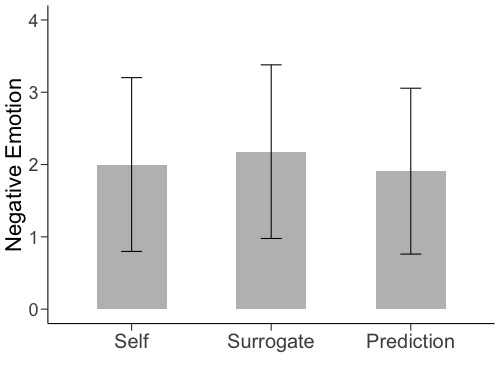
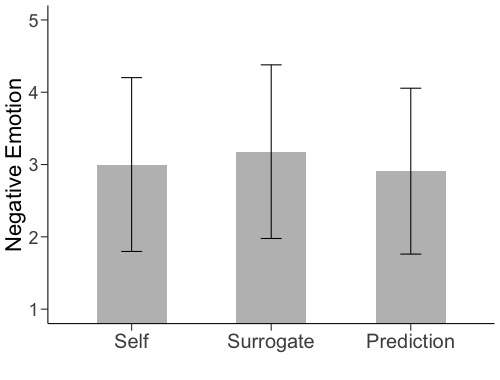
Updated scales

diff --git a/viz-2.html b/viz-2.html
@@ -198,6 +198,76 @@ risk_all &lt;- risk_all %&gt;%
          rel_self = as_factor(rel_self),
          rel_friend1 = as_factor(rel_friend1),
          rel_friend2 = as_factor(rel_friend2)) </code></pre>
+<pre class="r"><code>risk_all &lt;- risk_all %&gt;% 
+  mutate(risklevel = case_when(risklevel == 0 ~ 1,
+                               risklevel == 1 ~ 2,
+                               risklevel == 2 ~ 3,
+                               risklevel == 3 ~ 4,
+                               risklevel == 4 ~ 5,
+                               risklevel == 5 ~ 6,
+                               risklevel == 6 ~7),
+         neg = case_when(neg == 0 ~ 1,
+                         neg == 1 ~ 2,
+                         neg == 2 ~ 3,
+                         neg == 3 ~ 4,
+                         neg == 4 ~ 5),
+         pos = case_when(pos == 0 ~ 1,
+                         pos == 1 ~ 2,
+                         pos == 2 ~ 3,
+                         pos == 3 ~ 4,
+                         pos == 4 ~ 5),
+         alert = case_when(alert == 0 ~ 1,
+                         alert == 1 ~ 2,
+                         alert == 2 ~ 3,
+                         alert == 3 ~ 4,
+                         alert == 4 ~ 5),
+         riskyrisk = case_when(riskyrisk == 0 ~ 1,
+                         riskyrisk == 1 ~ 2,
+                         riskyrisk == 2 ~ 3,
+                         riskyrisk == 3 ~ 4,
+                         riskyrisk == 4 ~ 5),
+         riskavrisk = case_when(riskavrisk == 0 ~ 1,
+                         riskavrisk == 1 ~ 2,
+                         riskavrisk == 2 ~ 3,
+                         riskavrisk == 3 ~ 4,
+                         riskavrisk == 4 ~ 5))
+
+summary(risk_all)</code></pre>
+<pre><code>##     consent       time             age                              gender   
+##  Min.   :1   Min.   :  45.0   Min.   :  18.00   Male                   :295  
+##  1st Qu.:1   1st Qu.: 236.0   1st Qu.:  30.00   Female                 :274  
+##  Median :1   Median : 321.0   Median :  36.00   Non-binary             :  0  
+##  Mean   :1   Mean   : 397.8   Mean   :  43.14   Other/Prefer not to say:  0  
+##  3rd Qu.:1   3rd Qu.: 444.0   3rd Qu.:  48.00                                
+##  Max.   :1   Max.   :3142.0   Max.   :1985.00                                
+##    gendcond              condition     friend1            friend2         
+##  Length:569         Self      :192   Length:569         Length:569        
+##  Class :character   Surrogate :191   Class :character   Class :character  
+##  Mode  :character   Prediction:186   Mode  :character   Mode  :character  
+##                                                                           
+##                                                                           
+##                                                                           
+##    risklevel          pos             neg           alert         riskyrisk    
+##  Min.   :1.000   Min.   :1.000   Min.   :1.00   Min.   :1.000   Min.   :1.000  
+##  1st Qu.:4.000   1st Qu.:4.000   1st Qu.:2.00   1st Qu.:4.000   1st Qu.:2.000  
+##  Median :5.000   Median :4.000   Median :3.00   Median :4.000   Median :3.000  
+##  Mean   :4.708   Mean   :4.035   Mean   :3.03   Mean   :3.979   Mean   :2.663  
+##  3rd Qu.:6.000   3rd Qu.:5.000   3rd Qu.:4.00   3rd Qu.:5.000   3rd Qu.:4.000  
+##  Max.   :7.000   Max.   :5.000   Max.   :5.00   Max.   :5.000   Max.   :5.000  
+##    riskavrisk    rel_self  rel_friend1 rel_friend2   attention1   attention2
+##  Min.   :1.000   YES:314   YES:268     YES:280     Min.   :7    Min.   :3   
+##  1st Qu.:1.000   NO :255   NO :301     NO :289     1st Qu.:7    1st Qu.:3   
+##  Median :1.000                                     Median :7    Median :3   
+##  Mean   :1.786                                     Mean   :7    Mean   :3   
+##  3rd Qu.:2.000                                     3rd Qu.:7    3rd Qu.:3   
+##  Max.   :5.000                                     Max.   :7    Max.   :3   
+##      code                 id         code_mturk       
+##  Length:569         Min.   :  1.0   Length:569        
+##  Class :character   1st Qu.:160.0   Class :character  
+##  Mode  :character   Median :307.0   Mode  :character  
+##                     Mean   :307.1                     
+##                     3rd Qu.:457.0                     
+##                     Max.   :607.0</code></pre>
 <pre class="r"><code>mytheme = theme(
   axis.title.x = element_text(size = 22),
   axis.text.x = element_text(size = 20),
@@ -215,16 +285,18 @@ risk_all %&gt;%
     sd = sd(riskrating)
   ) %&gt;% 
   ggplot(aes(x = option, y = mean)) +
-  
-  geom_bar(stat = &quot;identity&quot;, fill = &quot;grey&quot;,position=position_dodge(), width = .5) +  
+  geom_bar(stat = &quot;identity&quot;, fill = &quot;grey&quot;, position=position_dodge(), width = .5) +  
   geom_errorbar(aes(ymin= mean-sd, ymax = mean + sd),  width=.15, position=position_dodge(.9)) +
   labs(x = &quot;&quot;,
        y = &quot;Riskiness&quot;) +
   scale_x_discrete(labels = c(&quot;Stay with Friends&quot;, &quot;Approach Barista&quot;)) +
-  scale_y_continuous(limits = c(-1, 4)) +
+      coord_cartesian(ylim=c(0, 5)) +
   theme_classic() +
   mytheme
 
+# Hadley explains this on pp. 99; 133 of his ggplot2 book (1st edition), or pp. 160 - 161 if you have the second edition.
+# 
+# The issue is that, as you say, limits inside the scale or setting ylim() causes data to be thrown away, as they are constraining the data. For a true zoom (keep all the data), you need to set the limits inside of the Cartesian coordinate system (or other coordinate systems https://ggplot2.tidyverse.org/reference/#section-coordinate-systems). For more see: http://docs.ggplot2.org/current/coord_cartesian.html
 
 dev.off()</code></pre>
 <pre><code>## quartz_off_screen 
@@ -245,20 +317,21 @@ df</code></pre>
 <pre><code>## # A tibble: 3 x 9
 ##   condition  mean_risk sd_risk mean_neg sd_neg mean_pos sd_pos mean_alert
 ## * &lt;fct&gt;          &lt;dbl&gt;   &lt;dbl&gt;    &lt;dbl&gt;  &lt;dbl&gt;    &lt;dbl&gt;  &lt;dbl&gt;      &lt;dbl&gt;
-## 1 Self            3.24    1.78     2      1.20     2.94  0.841       2.95
-## 2 Surrogate       3.88    1.70     2.18   1.20     3.10  0.767       3.02
-## 3 Prediction      4.02    1.43     1.91   1.15     3.06  0.829       2.96
+## 1 Self            4.24    1.78     3      1.20     3.94  0.841       3.95
+## 2 Surrogate       4.88    1.70     3.18   1.20     4.10  0.767       4.02
+## 3 Prediction      5.02    1.43     2.91   1.15     4.06  0.829       3.96
 ## # … with 1 more variable: sd_alert &lt;dbl&gt;</code></pre>
 <pre class="r"><code>jpeg(&quot;rt_bar.jpg&quot;, width = 500, height = 380)
 
 df %&gt;% 
   ggplot(aes(y = mean_risk, x = condition)) +
-  geom_bar(stat = &quot;identity&quot;, fill = &quot;grey&quot;,position=position_dodge(), width = .5) +
+  geom_bar(stat = &quot;identity&quot;, fill = &quot;grey&quot;, position=position_dodge(), width = .5) +
   geom_errorbar(aes(ymin = mean_risk - sd_risk, ymax = mean_risk + sd_risk),  width=.15, position=position_dodge(.9)) +
   labs(x = &quot;&quot;,
        y = &quot;Risk Taking Levels&quot;) +
   scale_x_discrete(labels = c(&quot;Self&quot;, &quot;Surrogate&quot;, &quot;Prediction&quot;)) +
-  scale_y_continuous(limits = c(0,6), breaks = c(0,1,2,3,4,5,6)) +
+  coord_cartesian(ylim = c(1,7)) +
+  scale_y_continuous(breaks = c(1,2,3,4,5,6,7)) +
   theme_classic() +
   mytheme
 
@@ -274,8 +347,8 @@ df %&gt;%
   labs(x = &quot;&quot;,
        y = &quot;Negative Emotion&quot;) +
   scale_x_discrete(labels = c(&quot;Self&quot;, &quot;Surrogate&quot;, &quot;Prediction&quot;)) +
-  scale_y_continuous(limits = c(0,4)) +
-  theme_classic() +
+coord_cartesian(ylim = c(1,5)) +
+  scale_y_continuous(breaks = c(1,2,3,4,5)) +  theme_classic() +
   mytheme
 
 dev.off()</code></pre>
@@ -290,6 +363,8 @@ df %&gt;%
   labs(x = &quot;&quot;,
        y = &quot;Positive Emotion&quot;) +
   scale_x_discrete(labels = c(&quot;Self&quot;, &quot;Surrogate&quot;, &quot;Prediction&quot;)) +
+  coord_cartesian(ylim = c(1,5)) +
+  scale_y_continuous(breaks = c(1,2,3,4,5)) +
   theme_classic() +
   mytheme
 
@@ -305,6 +380,8 @@ df %&gt;%
   labs(x = &quot;&quot;,
        y = &quot;Alertness&quot;) +
   scale_x_discrete(labels = c(&quot;Self&quot;, &quot;Surrogate&quot;, &quot;Prediction&quot;)) +
+    coord_cartesian(ylim = c(1,5)) +
+  scale_y_continuous(breaks = c(1,2,3,4,5)) +
   theme_classic() +
   mytheme
 
